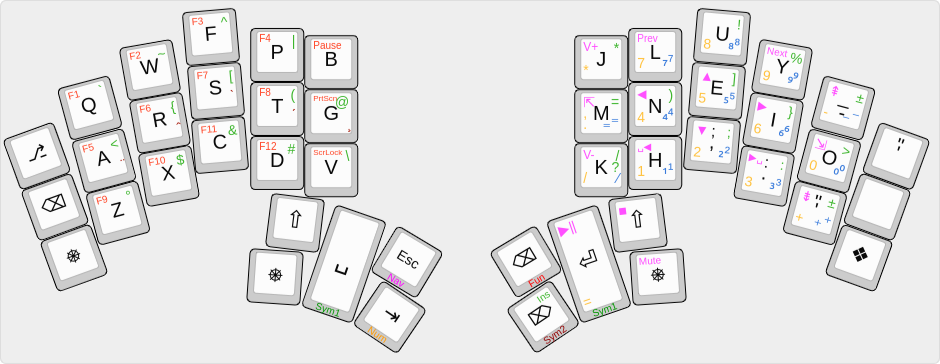
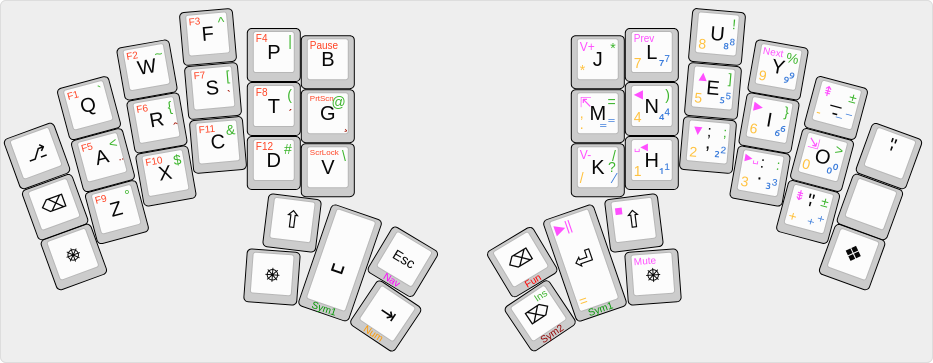
Handy: Adding design picture and refreshing layout one

diff --git a/Handy/README.md b/Handy/README.md
@@ -2,6 +2,8 @@
 
 ![Handy layout](Handy%20layout.png)
 
+![Handy design](Handy%20design.png)
+
 This is a split keyboard with the following properties:
 
 - 3*6 alphas matrices
